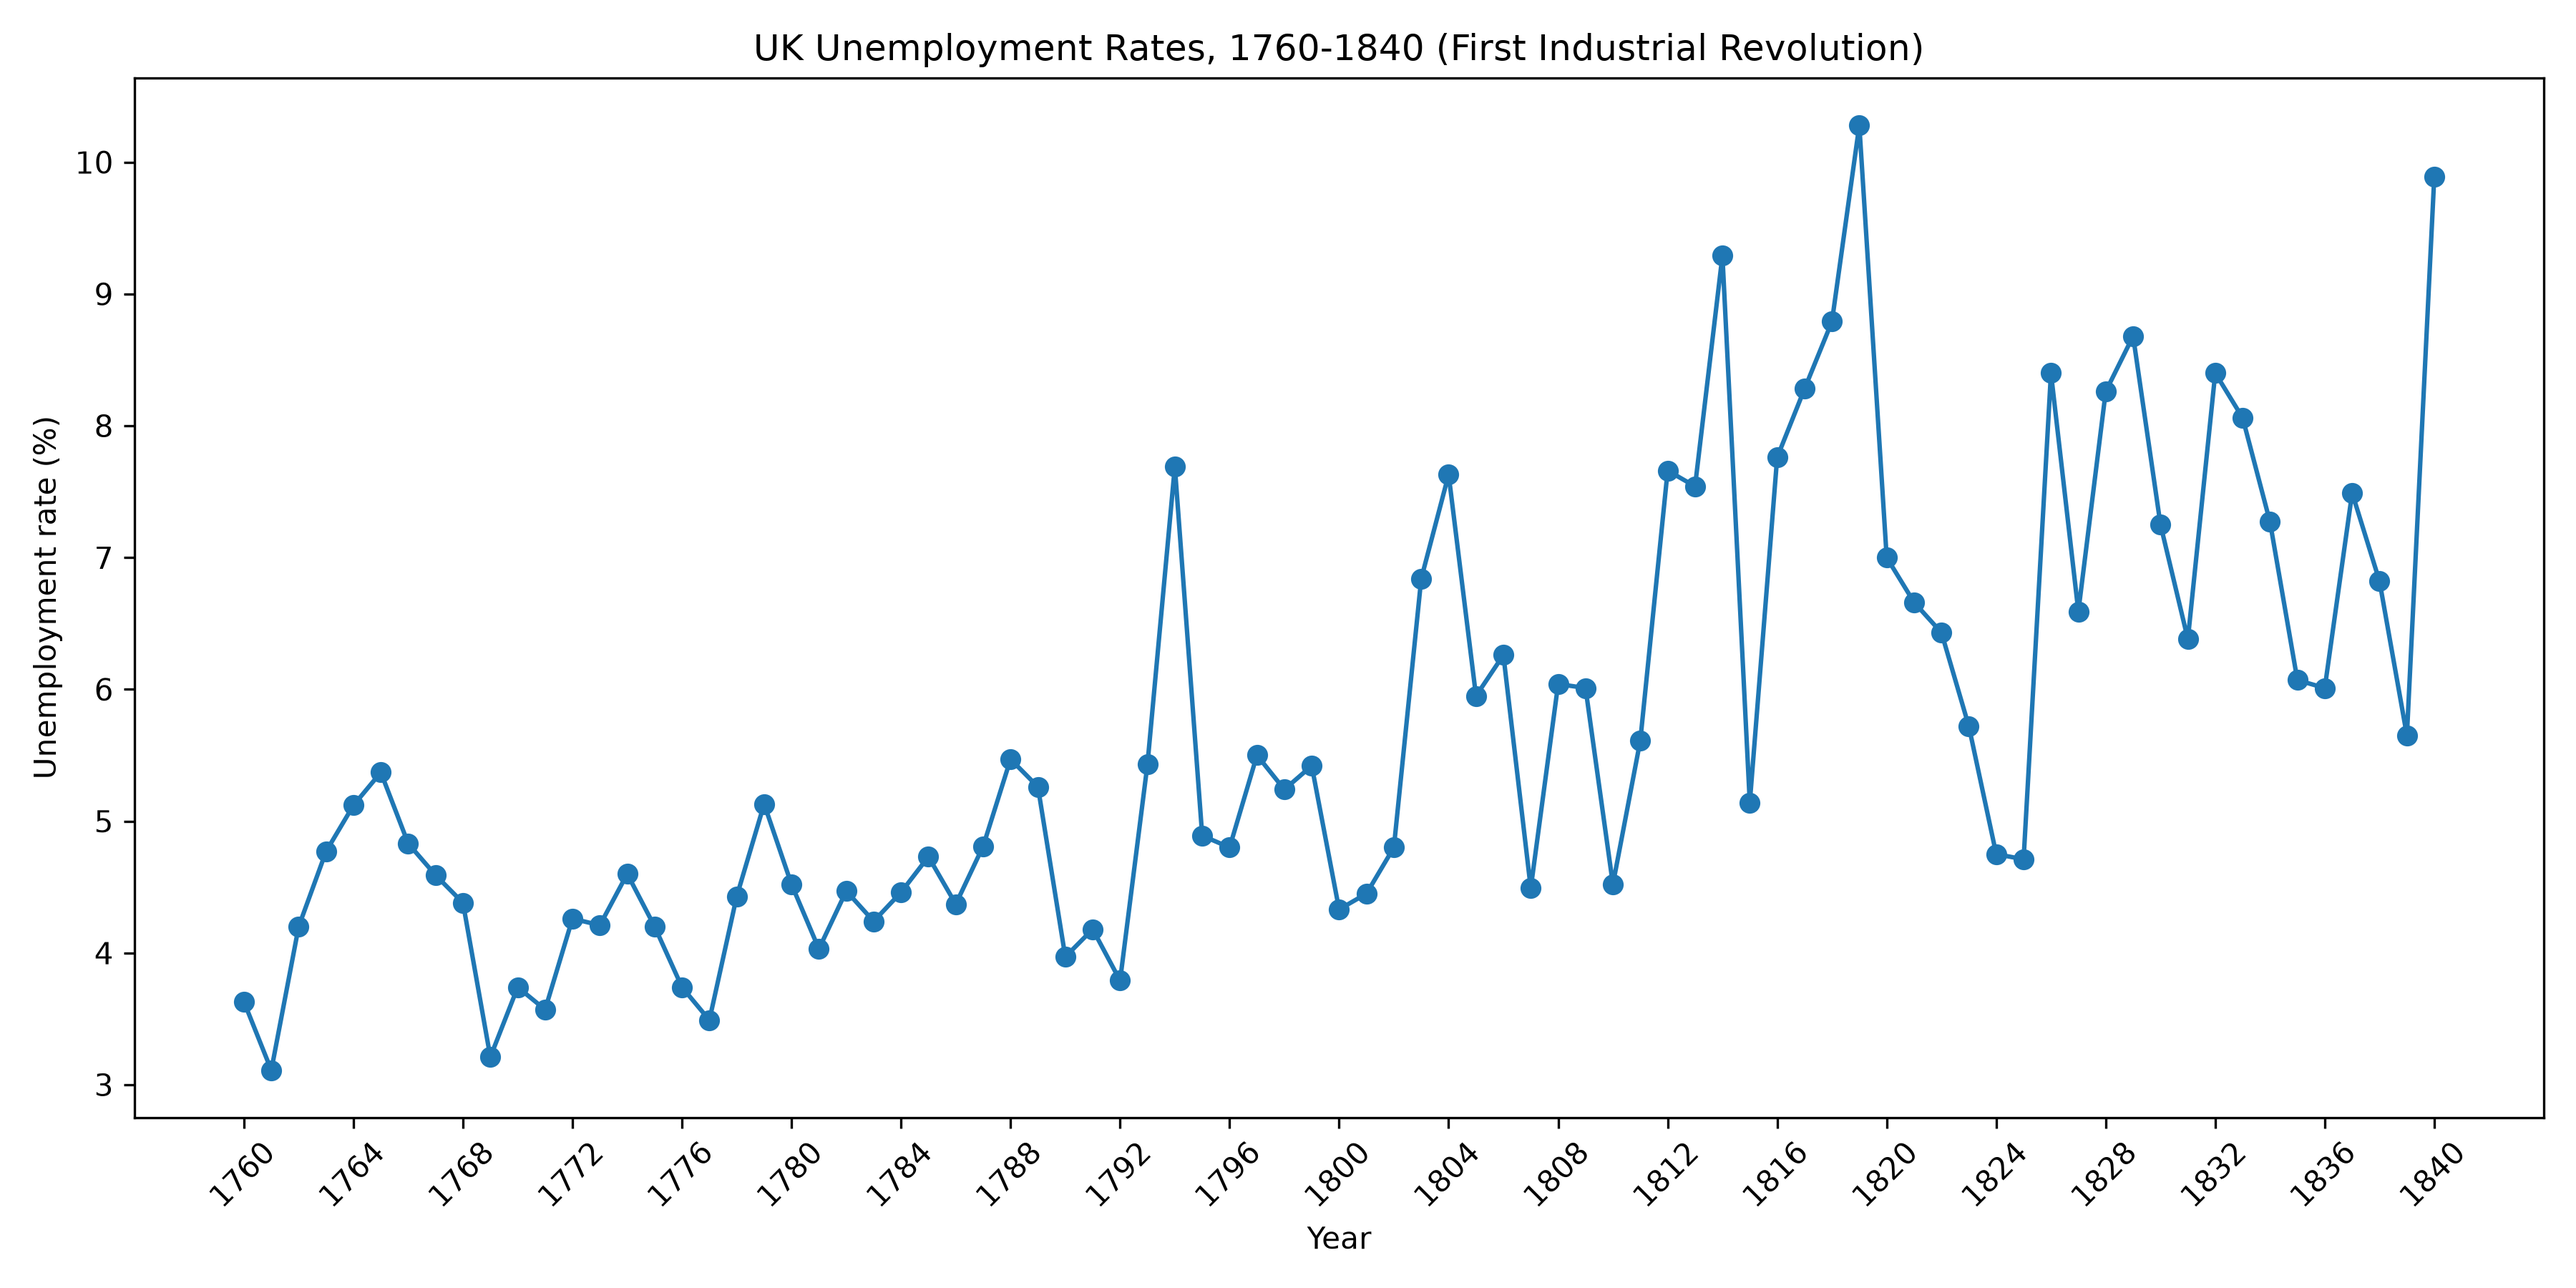
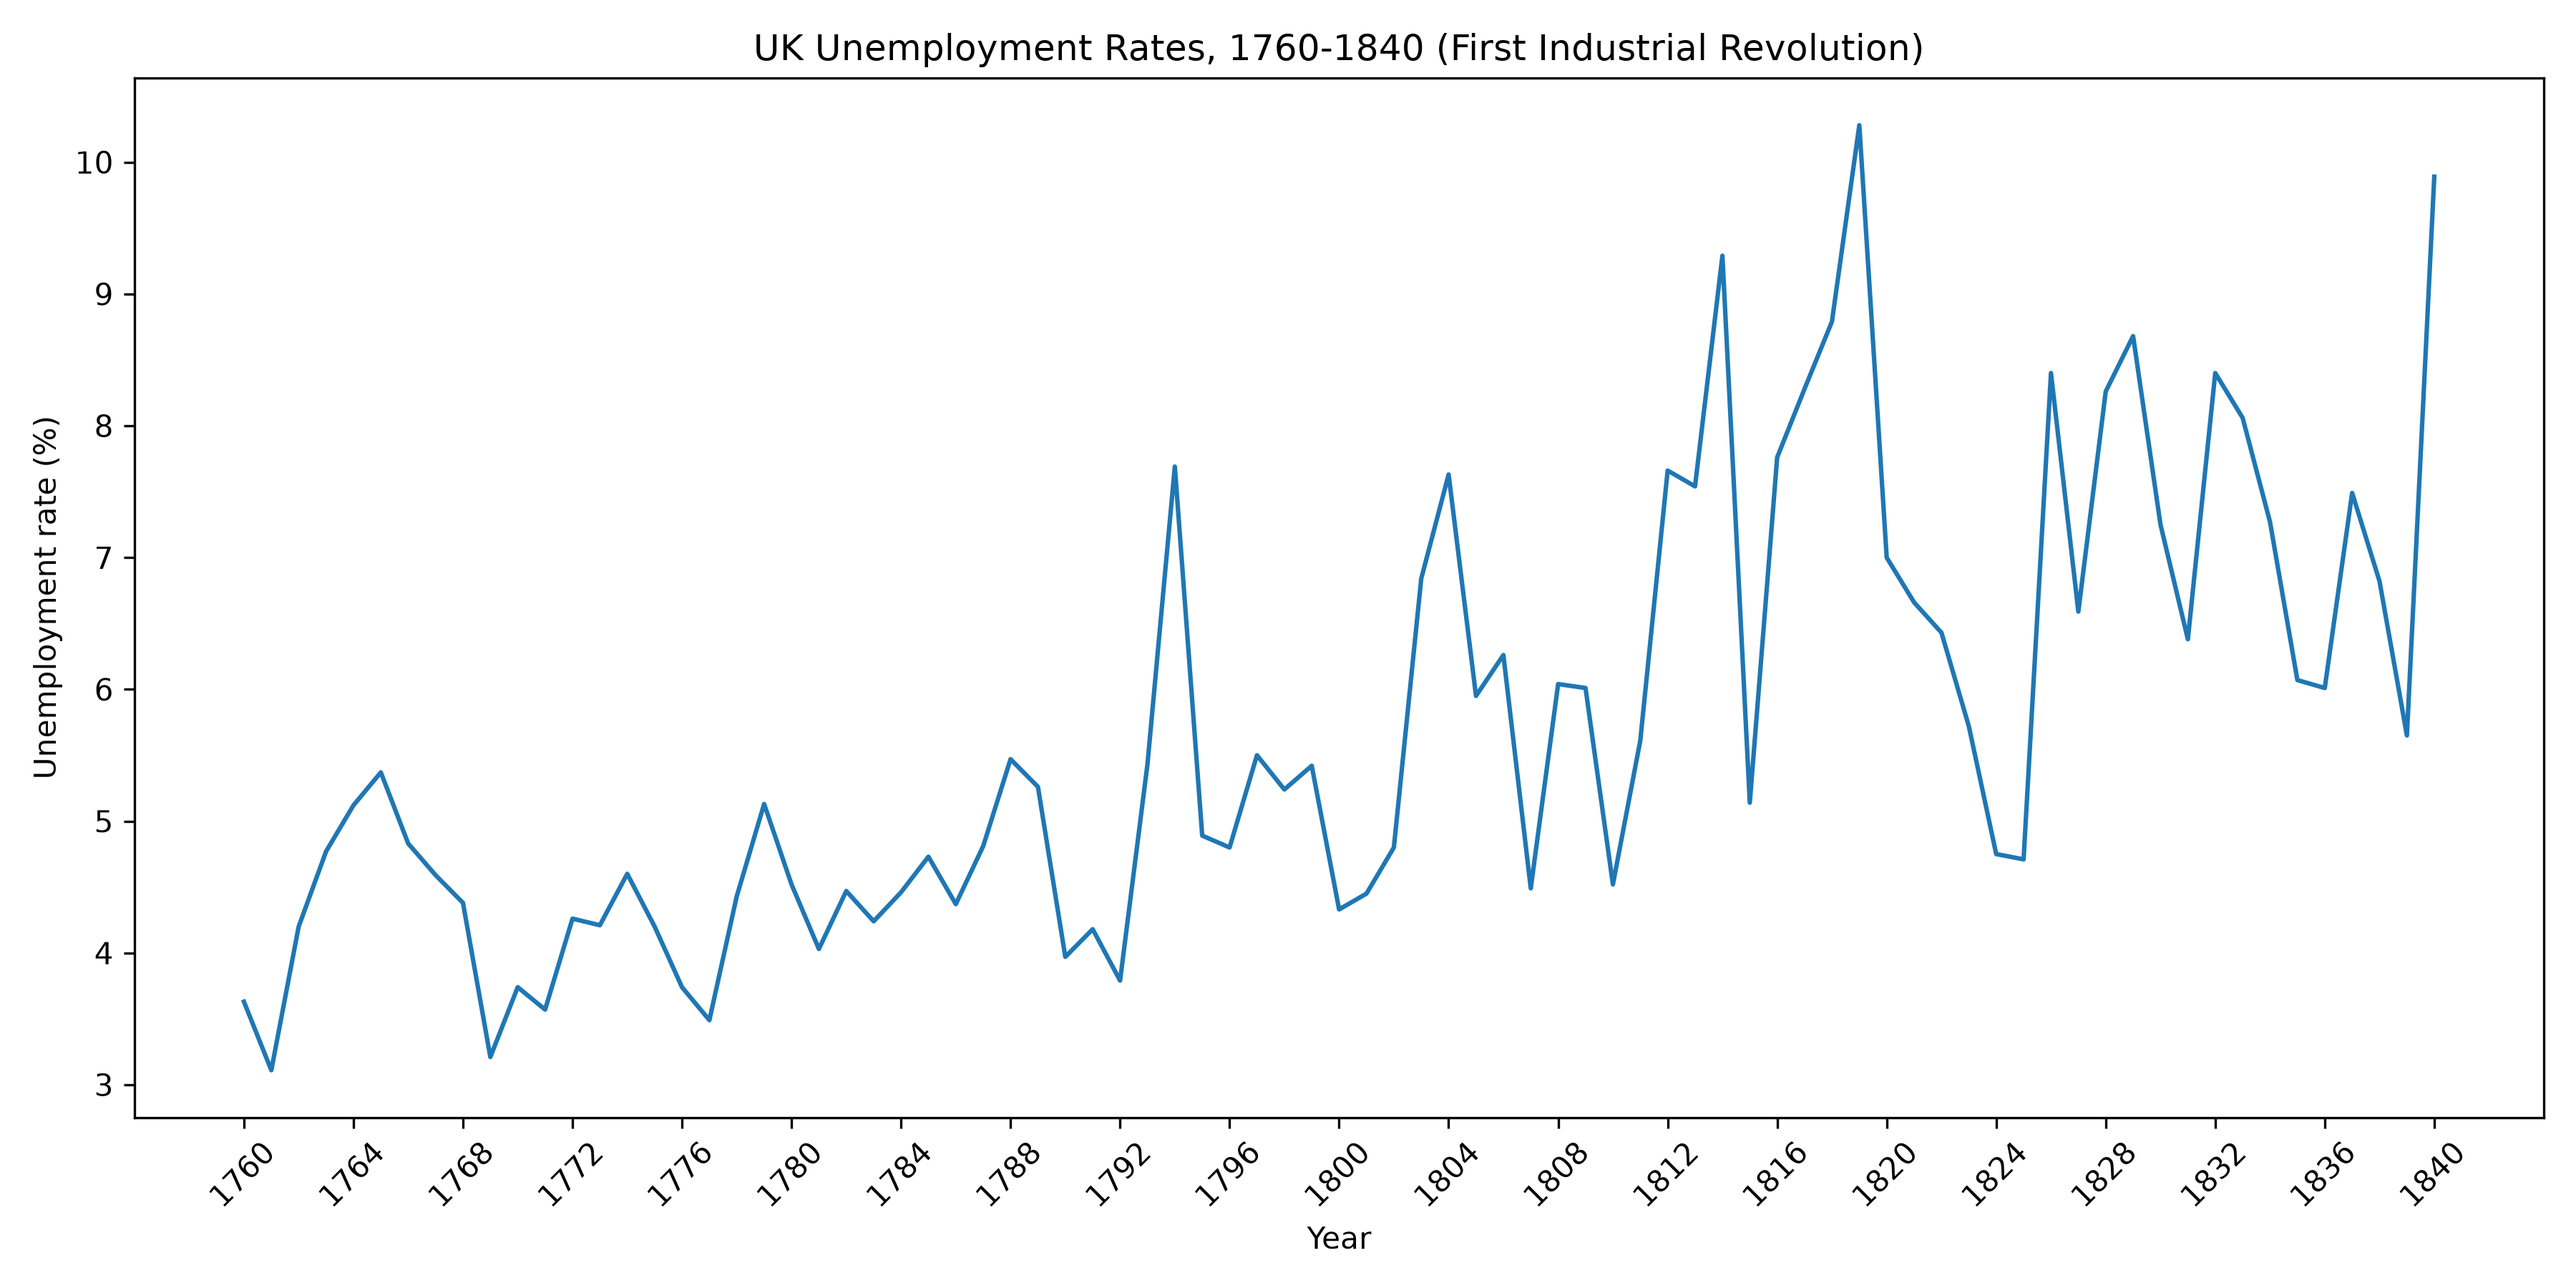
Fixed the problems with duplicate or weird grpahs

diff --git a/Data Analysis/Scripts for Graphs/scripts_for_graphs.py b/Data Analysis/Scripts for Graphs/scripts_for_graphs.py
@@ -184,7 +184,7 @@ if __name__ == "__main__":
     df, consent_given, no_consent = to_df(files["data"], consent)
 
     # Separate respondents by employment status
-    (df_employed, df_unemployed, df_students, df_retireds, pie_val) = employed_unemployed(df)
+    (df_full_time_employed, df_part_time_employed, df_self_employed, df_unemployed, df_students, de_retirees, pie_val) = employed_unemployed(df)
 
     # Load unemployment statistics
     (df_unemployment_anual, years, rates_anual, final_5_yr, final_5_rates) = parse_unemployed_csv_anual(files["annual"])
@@ -208,36 +208,26 @@ if __name__ == "__main__":
     #-------------------------
 
     # Fig1.png
-    labels = ["Full time employed","Part time employed", "Self employed","Unemployed", "Students", "Retirees"]
+    # labels = ["Full time employed","Part time employed", "Self employed","Unemployed", "Students", "Retirees"]
     
-    # Keep categories with at least one respondent
-    filtered = [(label, value) for label, value in zip(labels, pie_val) if value > 0]
+    # # Keep categories with at least one respondent
+    # filtered = [(label, value) for label, value in zip(labels, pie_val) if value > 0]
 
-    # Separate labels & vals
-    filtered_labels = [item[0] for item in filtered]
-    filtered_values = [item[1] for item in filtered]
+    # # Separate labels & vals
+    # filtered_labels = [item[0] for item in filtered]
+    # filtered_values = [item[1] for item in filtered]
     
-    plt.figure(figsize=(7, 7))
-    plt.pie(filtered_values, labels=filtered_labels, autopct="%1.1f%%")
-    plt.title("Employment status of respondents")
-    plt.savefig("Data Analysis/Graphs/Fig1.png")
-    plt.show()
-
-    # # Fig2a.png
-    # plt.figure(figsize=(12, 6))
-    # plt.plot(years, rates_anual, marker="o")
-    # plt.title("Unemployment rates from 1971-2025")
-    # plt.xlabel("Year")
-    # plt.ylabel("Unemployment rate (%)")
-    # plt.tight_layout()
-    # plt.savefig("Data Analysis/Graphs/Fig2a.png", dpi=300, bbox_inches="tight")
+    # plt.figure(figsize=(7, 7))
+    # plt.pie(filtered_values, labels=filtered_labels, autopct="%1.1f%%")
+    # plt.title("Employment status of respondents")
+    # plt.savefig("Data Analysis/Graphs/Fig1.png")
     # plt.show()
 
-    # # Fig2b.png
+    # Fig2.png
     # plt.figure()
     # plt.plot(final_5_yr, final_5_rates, marker="o")
     # plt.title("Unemployment rates from 2020-2025")
-    # plt.savefig("Data Analysis/Graphs/Fig2b.png", dpi=300, bbox_inches="tight")
+    # plt.savefig("Data Analysis/Graphs/Fig2.png", dpi=300, bbox_inches="tight")
     # plt.show()
     # plt.close()
 
@@ -252,18 +242,29 @@ if __name__ == "__main__":
     # plt.savefig("Data Analysis/Graphs/Fig3.png", dpi=300, bbox_inches="tight")
     # plt.show()
     # plt.close()
-
+    
+    # Fig4a.png
+    plt.figure(figsize=(12, 6))
+    plt.plot(years_60_40, rates_60_40)
+    plt.title("UK Unemployment Rates, 1760-1840 (First Industrial Revolution)")
+    plt.xlabel("Year")
+    plt.ylabel("Unemployment rate (%)")
+    plt.xticks(years_60_40[::4], rotation=45)
+    plt.tight_layout()
+    plt.savefig("Data Analysis/Graphs/Fig4a.png", dpi=300)
+    plt.show()
+    plt.close()
+    
     # Fig4a.png
     # plt.figure(figsize=(12, 6))
-    # plt.plot(years_60_40, rates_60_40, marker="o")
-    # plt.title("UK Unemployment Rates, 1760-1840 (First Industrial Revolution)")
+    # plt.plot(years_50_70, rates_50_70, marker="o")
+    # plt.title("UK Unemployment Rates, 1950-1970 (Third Industrial Revolution)")
     # plt.xlabel("Year")
     # plt.ylabel("Unemployment rate (%)")
-    # plt.xticks(years_60_40[::4], rotation=45)
+    # plt.xticks(years_50_70[::2], rotation=45)
     # plt.tight_layout()
-    # plt.savefig("Data Analysis/Graphs/Fig4a.png", dpi=300)
+    # plt.savefig("Data Analysis/Graphs/Fig4.png", dpi=300, bbox_inches="tight")
     # plt.show()
-    # plt.close()
 
     # # Fig4b.png
     # plt.figure(figsize=(12, 6))
@@ -276,14 +277,3 @@ if __name__ == "__main__":
     # plt.savefig("Data Analysis/Graphs/Fig4b.png", dpi=300, bbox_inches="tight")
     # plt.show()
     # plt.close()
-    
-    # # Fig4c.png
-    # plt.figure(figsize=(12, 6))
-    # plt.plot(years_50_70, rates_50_70, marker="o")
-    # plt.title("UK Unemployment Rates, 1950-1970 (Third Industrial Revolution)")
-    # plt.xlabel("Year")
-    # plt.ylabel("Unemployment rate (%)")
-    # plt.xticks(years_50_70[::2], rotation=45)
-    # plt.tight_layout()
-    # plt.savefig("Data Analysis/Graphs/Fig4c.png", dpi=300, bbox_inches="tight")
-    # plt.show()
